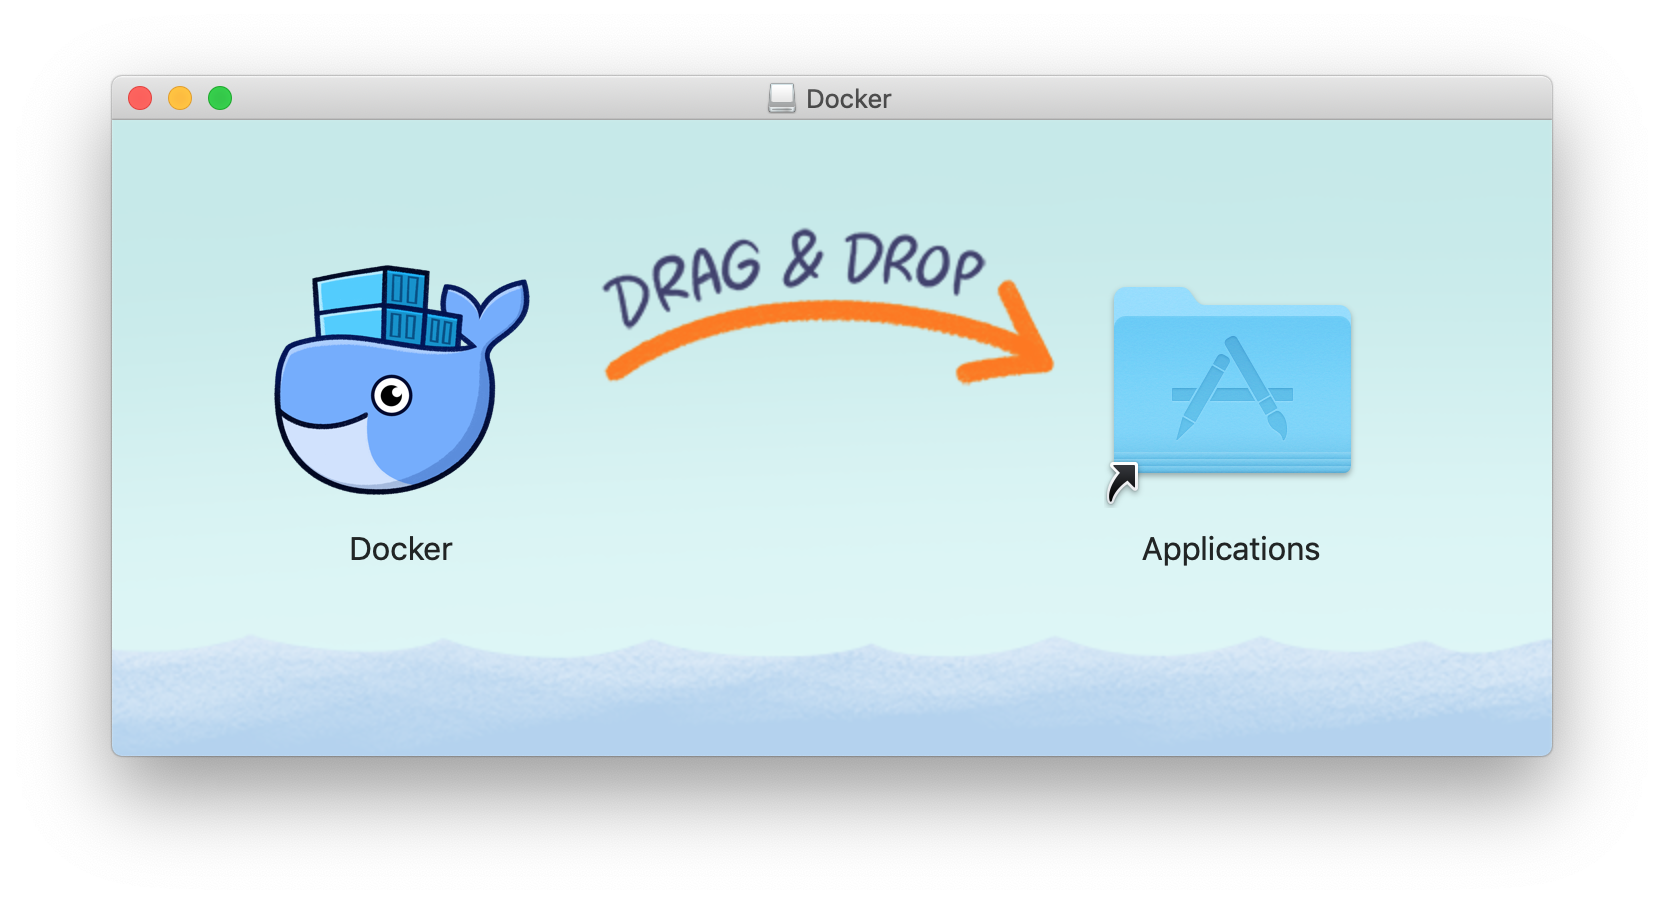
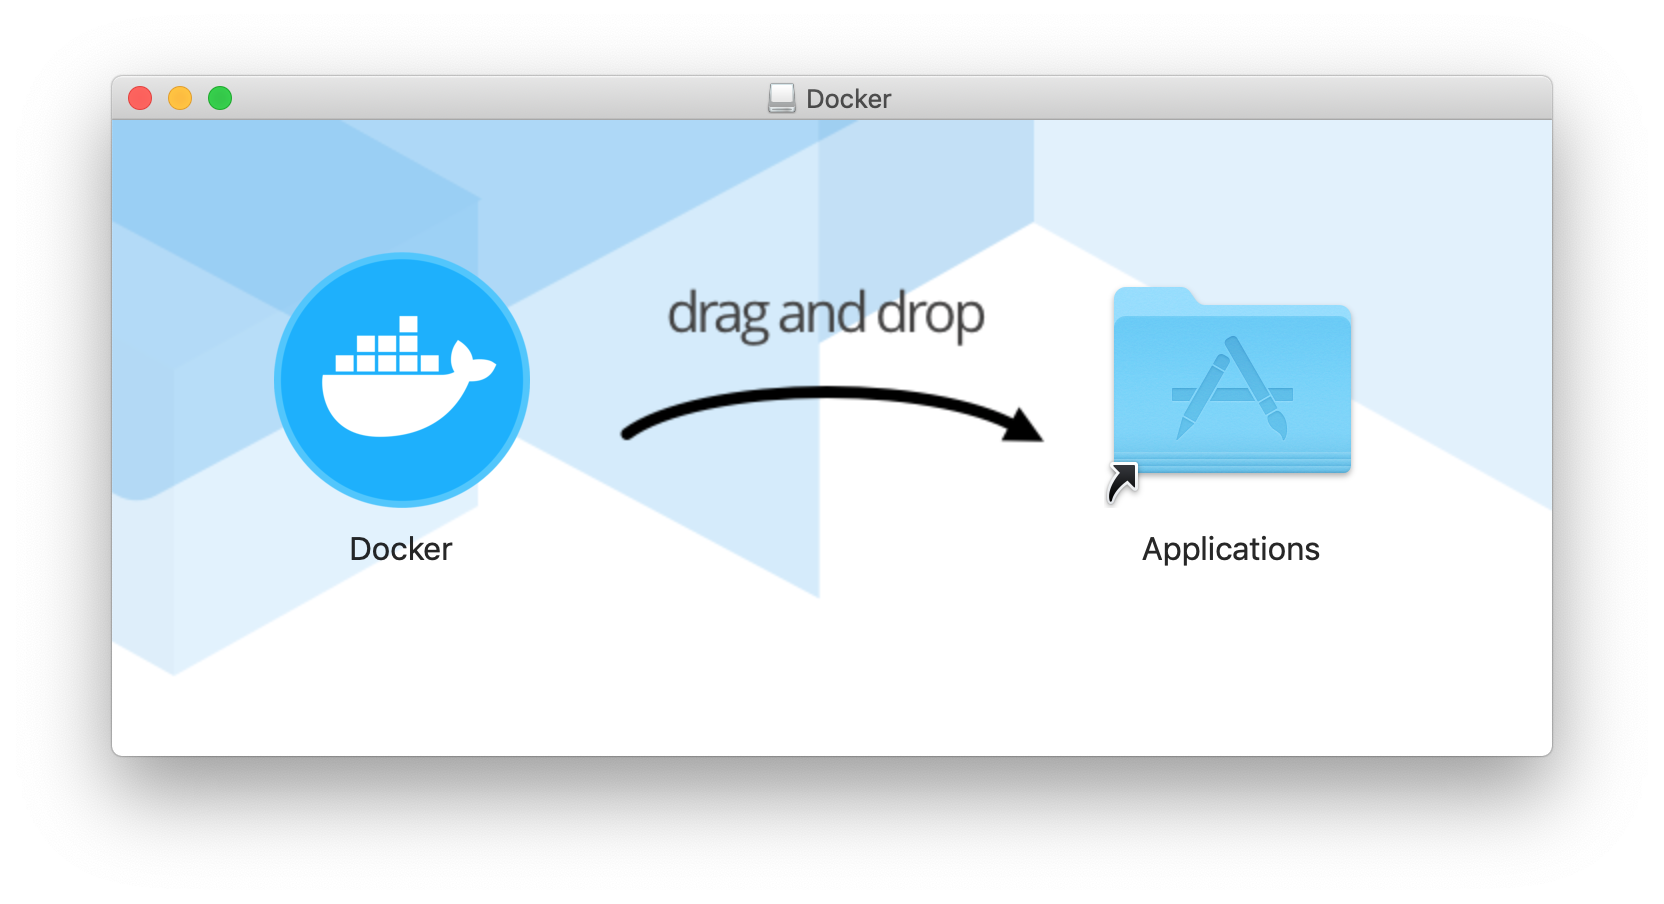
update mac install instructions

diff --git a/doc/UserGuide.md b/doc/UserGuide.md
@@ -34,7 +34,7 @@ Interferograms measure millimeter-scale changes in deformation over spans of day
 
 1. Download the [Docker for Mac](https://download.docker.com/mac/stable/Docker.dmg) installer (~650 MB).
 
-1. Double-click Docker.dmg to open the installer, then drag Moby the whale to the Applications folder.
+1. Double-click Docker.dmg to open the installer, then drag the Docker icon to the Applications folder.
 
    <p align="center"><img src="images/drag_and_drop.png" width="75%"></p>
 
@@ -45,6 +45,22 @@ Interferograms measure millimeter-scale changes in deformation over spans of day
    <p align="center"><img src="images/applications_folder.png" width="75%"></p>
    
    <p align="center"><img src="images/docker_is_running.png" width="40%"></p>
+
+1. Click the Docker icon in the top status bar and select "Preferences".
+
+   <p align="center"><img src="images/preferences.png" width="30%"></p>
+
+   1. Select "Disk"
+      1. Set "Disk image size" to 96.0 GB or higher.
+
+   <p align="center"><img src="images/disk_settings.png" width="75%"></p>
+
+   1. Select "Advanced".
+      1. Set "CPUs" to 4 or higher. More CPUs means faster processing, but may leave fewer resources for other programs during processing.
+      1. Set "Memory" to 16.0 GiB or higher.
+      1. Click "Apply & Restart" and wait for the green "Docker Engine is running" message to reappear.
+
+   <p align="center"><img src="images/advanced_settings.png" width="75%"></p>
 
 1. Download [**apt-insar.sh**](https://asfdaac.s3.amazonaws.com/apt-insar.sh) to the directory where InSAR products should be saved.
 
